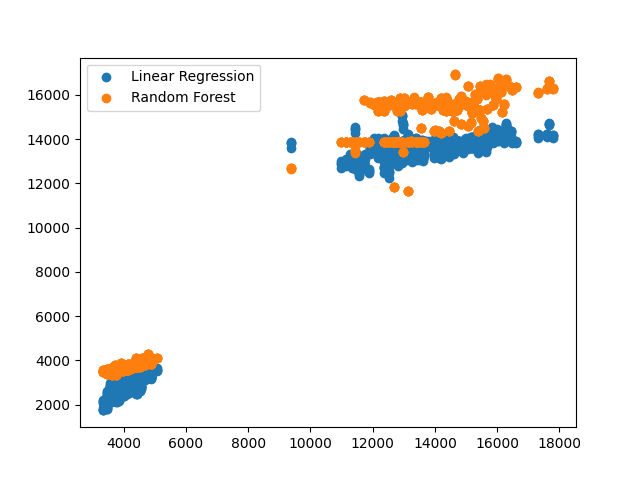
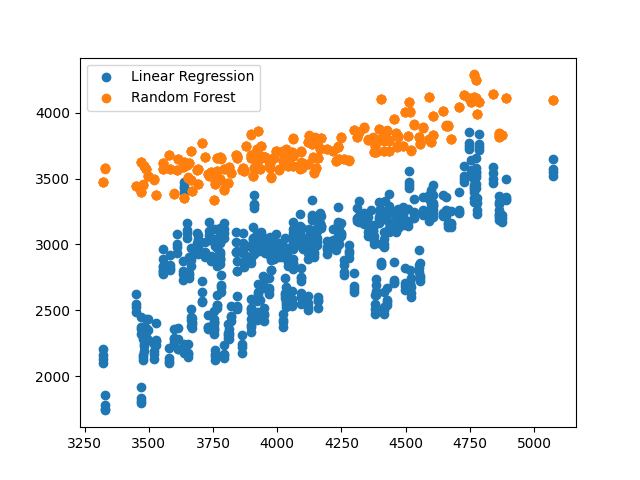
update 5

diff --git a/eda.py b/eda.py
@@ -30,6 +30,15 @@ def sel_province_data(pro_code, pro_name):
 
     return trimed_data
 
+def death_gender_loader(gender):
+    df_gender = pd.read_csv(f'data/death_age_{gender}.csv')
+    df_gender['Year'] = pd.to_datetime(df_gender['REF_DATE']).dt.year
+    df_gender['Week'] = pd.to_datetime(df_gender['REF_DATE'])
+    death_data_gender = df_gender[['Year', 'Week', 'GEO', 'VALUE', 'Age at time of death']]
+    death_data_gender = death_data_gender.rename(columns={'GEO': 'Province', 'VALUE': 'Death total'})
+    death_data_gender[f"Death total {gender}"] = death_data_gender["Death total"].fillna(death_data_gender['Death total'].mean()).astype(int)   
+    return death_data_gender
+
 def get_wek_end_date(date):
     input_datetime = date
     first_day_of_week = input_datetime - timedelta(days=input_datetime.weekday())
@@ -73,14 +82,6 @@ demographic_data = df[['Year', 'Quarter', 'GEO', 'VALUE']]
 demographic_data = demographic_data.rename(columns={'GEO': 'Province', 'VALUE': 'Population at end of quarter'})
 demographic_data["Population at end of quarter"] = demographic_data["Population at end of quarter"].astype(int)   
 
-def death_gender_loader(gender):
-    df_female = pd.read_csv(f'data/death_age_{gender}.csv')
-    df_female['Year'] = pd.to_datetime(df_female['REF_DATE']).dt.year
-    df_female['Week'] = pd.to_datetime(df_female['REF_DATE'])
-    death_data_female = df_female[['Year', 'Week', 'GEO', 'VALUE', 'Age at time of death']]
-    death_data_female = death_data_female.rename(columns={'GEO': 'Province', 'VALUE': 'Death total'})
-    death_data_female[f"Death total {gender}"] = death_data_female["Death total"].fillna(death_data_female['Death total'].mean()).astype(int)   
-    return death_data_female
 # demographic_data["Population at end of quarter(Million)"] = demographic_data["Population at end of quarter"]/1000000
 # demographic_data = demographic_data.drop(columns=['Population at end of quarter'])
 
@@ -93,6 +94,7 @@ gender_list = ['male','female']
 gender_data = pd.merge(death_gender_loader('male'), death_gender_loader('female'), on=['Year','Week','Province','Age at time of death'], how='inner')
 result_data = pd.merge(result_data, gender_data, on=['Year','Week','Province'], how='inner')
 result_data = result_data.drop(columns=['Year', 'Death total_x', 'Death total_y', 'Week'])
+result_data.drop_duplicates()
 print(result_data.head())
 
 result_data.to_csv('data/output_data_demographic.csv')

diff --git a/model/baselines.py b/model/baselines.py
@@ -31,6 +31,7 @@ os.makedirs('./results', exist_ok=True)
 
 ### standardize data + random split 
 X_train, X_test, y_train, y_test = train_test_split(X, y, test_size=0.2, random_state=42)
+
 X_train, y_train = shuffle(X_train, y_train, random_state=42)
 random_split = True
 
@@ -40,6 +41,9 @@ X_train = X[:split_index]
 X_test = X[split_index:]
 y_train = y[:split_index]
 y_test = y[split_index:]
+index_bc = X_test['Province_BC'] == 1
+X_test = X_test[index_bc]
+y_test = y_test[index_bc]
 X_train, y_train = shuffle(X_train, y_train, random_state=42)
 random_split = False
 
